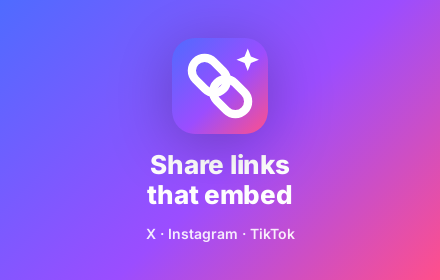
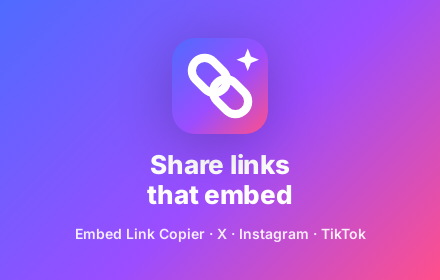
chore: renomme l'extension en Embed Link Copier (manifests, README, site, visuels)

Changed region(s): [[0.1477, 0.8, 0.8273, 0.8857]]

diff --git a/site/index.html b/site/index.html
@@ -4,9 +4,9 @@
 <head>
   <meta charset="utf-8">
   <meta name="viewport" content="width=device-width, initial-scale=1">
-  <title>X, Instagram &amp; TikTok Link Converter</title>
+  <title>Embed Link Copier</title>
   <meta name="description" content="Browser extension that copies X, Instagram and TikTok posts as links that show a real preview in Discord, Telegram and WhatsApp.">
-  <meta property="og:title" content="X, Instagram & TikTok Link Converter">
+  <meta property="og:title" content="Embed Link Copier: X, Instagram, TikTok">
   <meta property="og:description" content="Share links that embed. One click on X, Instagram and TikTok.">
   <meta property="og:image" content="https://lepetitpaco.github.io/X-Instagram-Link-Converter/promo-marquee-1400x560.png">
   <meta name="twitter:card" content="summary_large_image">
@@ -89,7 +89,7 @@
 <body>
   <header>
     <div class="wrap">
-      <a class="brand" href="./"><img src="icon.svg" alt="">Link Converter</a>
+      <a class="brand" href="./"><img src="icon.svg" alt="">Embed Link Copier</a>
       <nav><a href="https://github.com/lepetitpaco/X-Instagram-Link-Converter">GitHub</a></nav>
     </div>
   </header>
@@ -97,7 +97,7 @@
   <main>
     <section class="hero">
       <div class="wrap">
-        <img class="logo" src="icon.svg" alt="X, Instagram &amp; TikTok Link Converter icon">
+        <img class="logo" src="icon.svg" alt="Embed Link Copier icon">
         <h1>Share links that <span>embed</span>.</h1>
         <p>One click copies an X, Instagram or TikTok post as a link to an existing embed service (vxTwitter, FxEmbed, fxTikTok…), so Discord, Telegram, WhatsApp &amp; co show the real video or picture. <a href="#credits">The embeds are theirs.</a></p>
         <div class="ctas">

diff --git a/store/scenes.html b/store/scenes.html
@@ -122,7 +122,7 @@
   <!-- 1. Promesse : le lien qui s'affiche dans le chat -->
   <section class="scene bg-soft" id="hero">
     <div class="copy">
-      <div class="brand"><img src="icon.svg" alt="">X, Instagram &amp; TikTok Link Converter</div>
+      <div class="brand"><img src="icon.svg" alt="">Embed Link Copier</div>
       <div class="kicker">Share links that embed</div>
       <h1>Your friends see the video, not a bare link.</h1>
       <p class="lead">One click copies an X, Instagram or TikTok post as a link to an embed service like vxTwitter, FxEmbed or fxTikTok, so Discord, Telegram &amp;&nbsp;co show the real video.</p>
@@ -260,7 +260,7 @@
     <div class="promo" style="flex-direction:column;justify-content:center;gap:16px;text-align:center">
       <img src="icon.svg" alt="" style="width:96px;height:96px">
       <div style="font-weight:800;font-size:26px;letter-spacing:-.01em;line-height:1.15">Share links<br>that embed</div>
-      <div style="font-weight:600;font-size:14px;opacity:.9">X · Instagram · TikTok</div>
+      <div style="font-weight:600;font-size:14px;opacity:.9">Embed Link Copier · X · Instagram · TikTok</div>
     </div>
   </section>
 
@@ -269,6 +269,7 @@
     <div class="promo" style="padding:0 110px;gap:56px">
       <img src="icon.svg" alt="" style="width:200px;height:200px">
       <div>
+        <div style="font-weight:700;font-size:24px;opacity:.9;margin-bottom:10px">Embed Link Copier</div>
         <div style="font-weight:800;font-size:64px;letter-spacing:-.02em;line-height:1.05">Share links that embed.</div>
         <div style="font-weight:500;font-size:26px;opacity:.92;margin-top:18px">One click on X, Instagram and TikTok. Real previews in Discord, Telegram, WhatsApp.</div>
       </div>

diff --git a/README.md b/README.md
@@ -1,6 +1,8 @@
 <p align="center"><img src="store/icon.svg" width="96" alt=""></p>
 
-<h1 align="center">X, Instagram &amp; TikTok Link Converter</h1>
+<h1 align="center">Embed Link Copier</h1>
+
+<p align="center">for X, Instagram and TikTok</p>
 
 <p align="center"><b>Share links that embed.</b> One click copies an X, Instagram or TikTok post as a link to an embed service (vxTwitter, FxEmbed, fxTikTok…), so Discord, Telegram &amp; co show the video.</p>
 

diff --git a/store/LISTING.md b/store/LISTING.md
@@ -14,7 +14,7 @@ Textes prêts à coller, en anglais. Visuels dans `store/` (régénérés par `s
 ## Nom (les deux stores)
 
 ```
-X, Instagram & TikTok Link Converter
+Embed Link Copier: X, Instagram, TikTok
 ```
 
 ## Résumé
